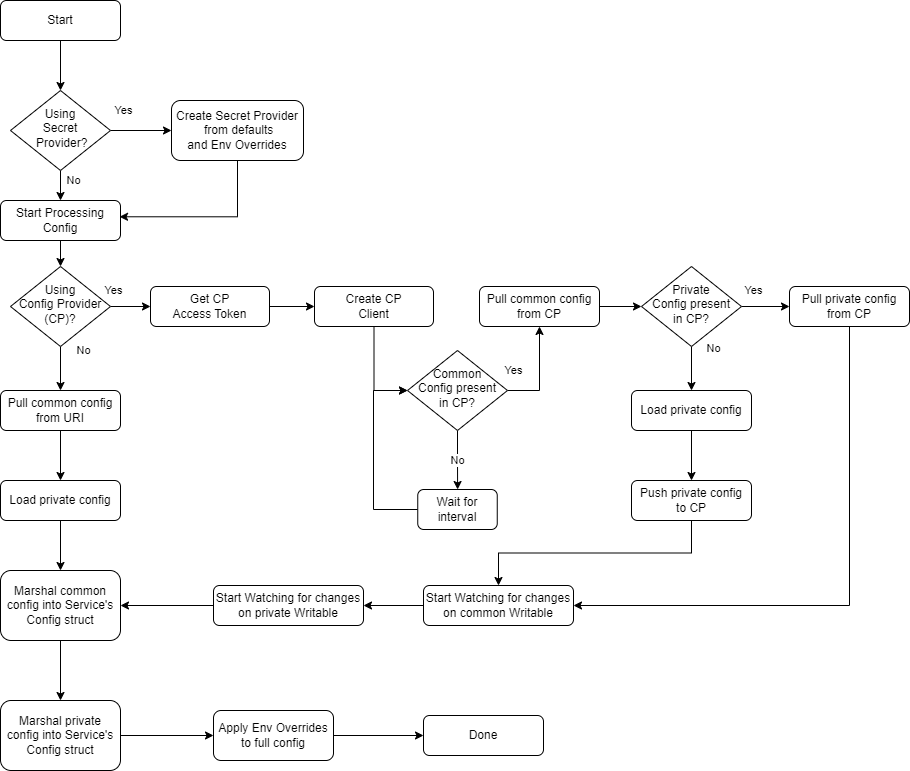
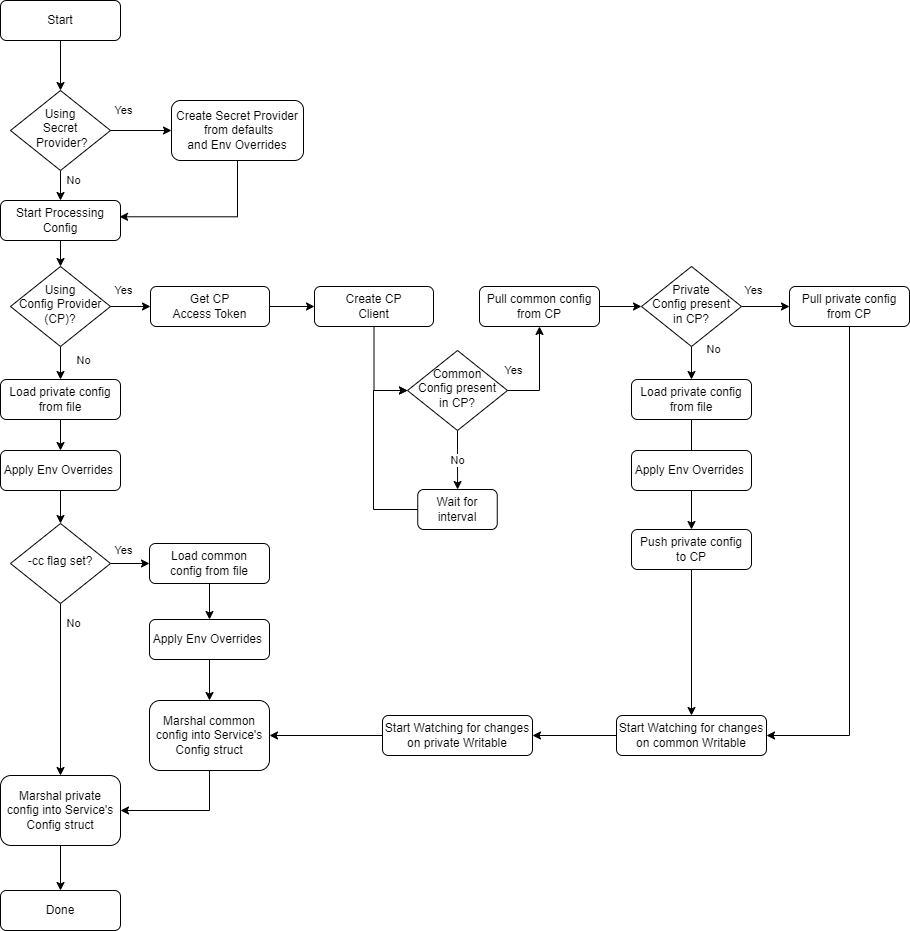
refactor: Rework ADR for Config Provider as System of Record (#1025)
* refactor: Rework ADR for Config Provider as System of Record

diff --git a/docs_src/design/adr/0026-Common Configuration.md b/docs_src/design/adr/0026-Common Configuration.md
@@ -4,7 +4,9 @@
 - Elizabeth Lee (Intel)
 
 ## Change Log
-- [approved](URL of PR TBD) (2023-01-03)
+- [original](https://github.com/edgexfoundry/edgex-docs/pull/909) - approved (2023-01-03)
+- [revised](https://github.com/edgexfoundry/edgex-docs/pull/1025) - approved (2023-04-17)
+  - Revised for Configuration Provider as System of Record  when used.
 
 ## Referenced Use Case(s)
 - [Common Configuration UCR](URL of use case link TBD)
@@ -25,7 +27,15 @@ During bootstrapping, each service will either load the common configuration fro
 
 An additional common configuration setting must be present to indicate all other common settings have been pushed to the Configuration Provider. This setting is stored last and the services must wait for this setting to be present prior to pulling the common settings.
 
-### Configuration Bootstrapping
+Environment overrides are only applied when configuration is loaded from file. The overridden values are pushed into the Configuration Provider, when used.
+
+### Common Config Bootstrapping
+
+The following flow chart demonstrates the bootstrapping  (seeding) of the common configuration when using the Configuration Provider.
+
+![](common-config-images/EdgeX 3.x Common Configuration bootstrapping flowchart.png)
+
+### Service Configuration Bootstrapping
 
 The following flow chart demonstrates the bootstrapping of each services' configuration with this new common configuration capability.
 
@@ -390,7 +400,7 @@ The following modules and services are impacted:
 ## Considerations
 
 - New service which owns the common configuration could be integrated into Core Metadata rather than creating a new microservice. This violates the microservice design principle of single responsibility.
-- Environment overrides pushed into Configuration Provider rather than applying the overrides once configuration is pulled from the Configuration Provider . Consensus is that the overridden values should not be stored in the Configuration Provider. 
+- When using the Configuration Provider, environment overrides are only used to seed the values into the Configuration Provider. This makes the Configuration Provider the **System of Record** for configuration when it is used. i.e. Environment overrides no longer have highest precedence as they do in EdgeX 2.x. Changing/adding environment overrides after the Configuration Provider is seeded has no impact on the service's configuration.
 - Service full configuration store in Configuration Provider rather than just private settings. Consensus is that this is redundant for the common settings and should only be the service's private settings.
 - Separate Application Service and Device Service common configuration settings could be in their own configuration sources which are loaded separately by Application and Device Services. This would add undue complexity that is mitigated by these settings being ignored by the marshaller in those services that do not use them.
 - The new service could provide a REST endpoint to serve the common configuration. Consensus is to have no default configuration, thus no need for an endpoint.
